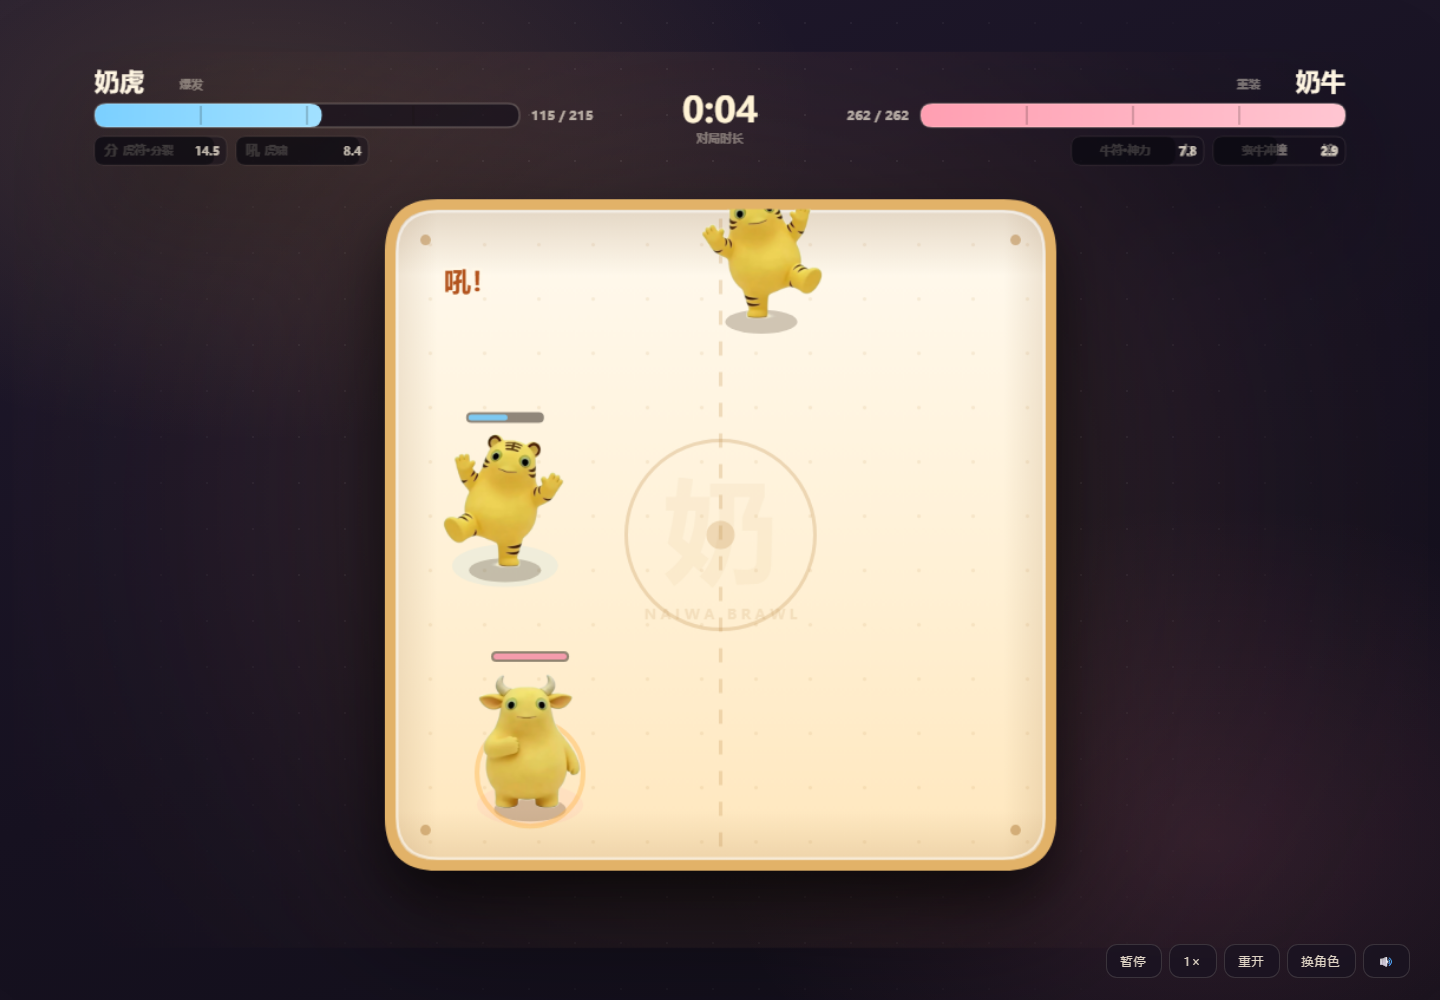
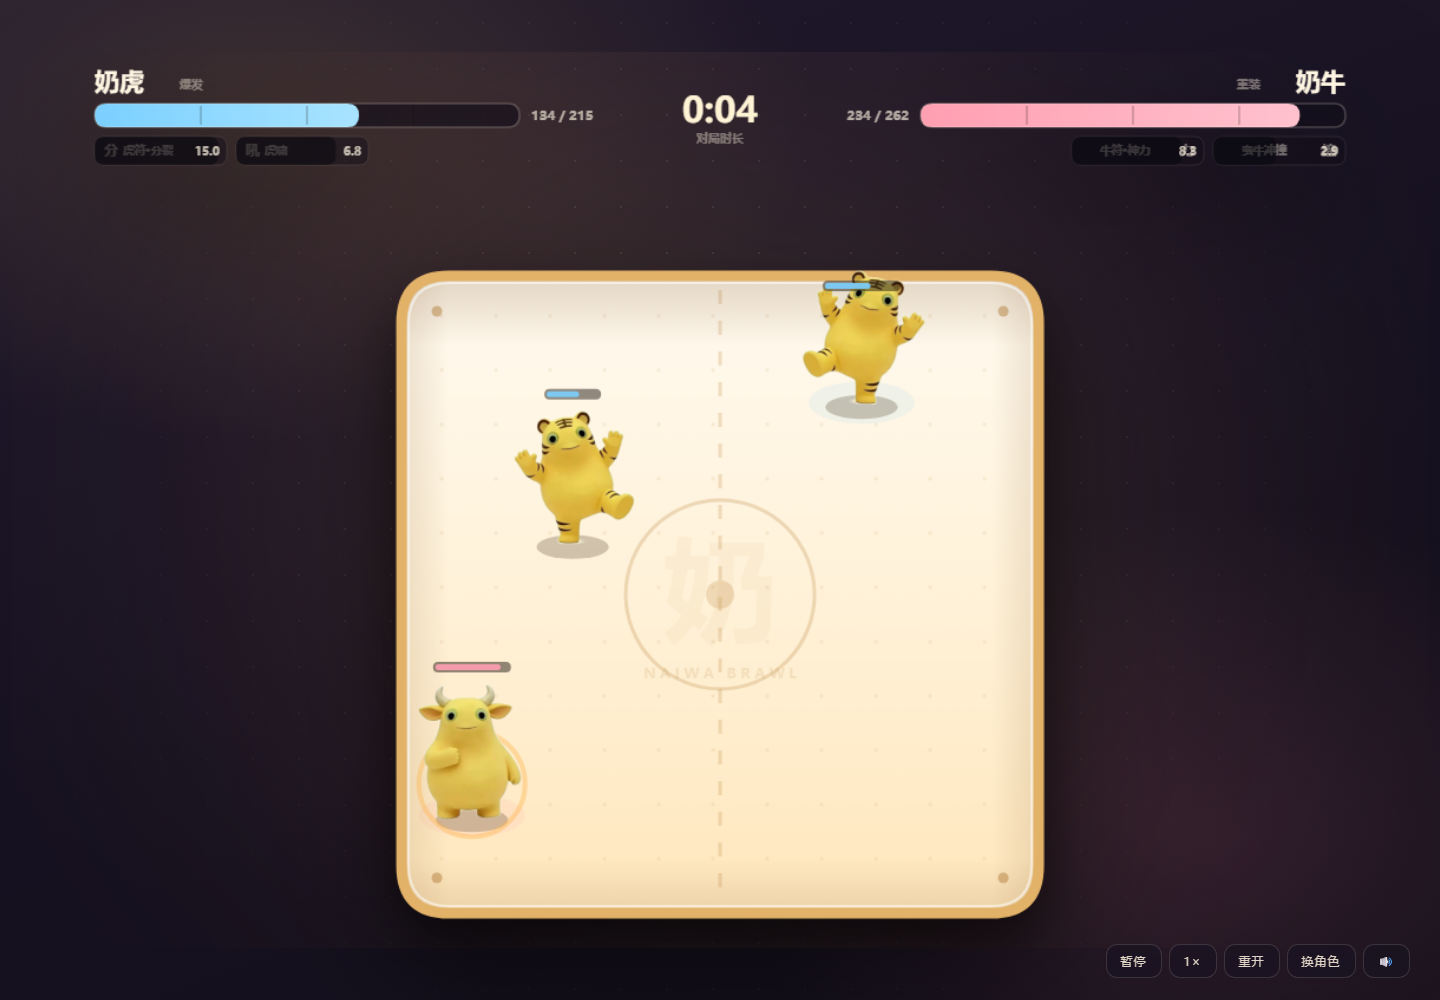
fix: 上边界不再裁切立绘；奶鼠偷取增益延长到 16 秒

diff --git a/src/game/skills.ts b/src/game/skills.ts
@@ -306,7 +306,7 @@ const steal: SkillDef = {
   id: 'steal',
   name: '偷奶酪',
   icon: '偷',
-  desc: '偷走对手 8% 攻击力（最多 4 层，持续 10 秒），并造成 12 伤害。',
+  desc: '偷走对手 8% 攻击力（最多 4 层，持续 16 秒），并造成 14 伤害。',
   cd: 7,
   windup: 0.3,
   color: '#ffd166',
@@ -316,7 +316,7 @@ const steal: SkillDef = {
     const target = t ?? enemyOf(f, w);
     if (target && !target.dead && dist(f.pos, target.pos) < f.radius + target.radius + 40) {
       f.buffStacks = Math.min(4, f.buffStacks + 1);
-      f.buffT = 10;
+      f.buffT = 16;
       w.damage(target, 14, f, { kb: 180, angle: angleOf(sub(target.pos, f.pos)) });
       w.text(f.pos.x, f.pos.y - 70, `攻击 +${f.buffStacks * 8}%`, '#8a5a00', 16);
       w.burst(f.pos.x, f.pos.y, 10, '#ffe07a', 120, 4);

diff --git a/src/render/renderer.ts b/src/render/renderer.ts
@@ -68,9 +68,10 @@ export class Renderer {
     this.drawBackdrop();
     this.drawArena(world);
 
-    // keep sprites inside the bowl: the rim occludes anyone hugging the wall
+    // clip to the bowl, but allow heads to overlap the top rim instead of
+    // getting sliced off when a frog hugs the top wall
     ctx.save();
-    roundRectPath(ctx, ARENA.x + 4, ARENA.y + 4, ARENA.w - 8, ARENA.h - 8, 34);
+    roundRectPath(ctx, ARENA.x + 4, ARENA.y - 58, ARENA.w - 8, ARENA.h + 54, 34);
     ctx.clip();
 
     this.drawTelegraphs(world);

diff --git a/src/game/constants.ts b/src/game/constants.ts
@@ -2,7 +2,7 @@ export const VIEW_W = 1200;
 export const VIEW_H = 760;
 
 /** Playfield. Everything lives in this rect; the HUD occupies the band above it. */
-export const ARENA = { x: 320, y: 130, w: 560, h: 560 };
+export const ARENA = { x: 330, y: 190, w: 540, h: 540 };
 
 export const SPAWN: [{ x: number; y: number }, { x: number; y: number }] = [
   { x: ARENA.x + ARENA.w * 0.22, y: ARENA.y + ARENA.h * 0.5 },

diff --git a/README.md b/README.md
@@ -43,7 +43,7 @@ pnpm preview
 
 ### 战场规则
 
-- **正方形奶盆** 560×560，四周弹性墙，**没有出界淘汰**。
+- **正方形奶盆** 540×540，四周弹性墙，**没有出界淘汰**；上边界允许立绘探出，不会被裁掉。
 - **所有角色体型一致**：碰撞半径统一 30，立绘按同一高度绘制（宽度随原画比例变化）。
 - **只有技能能造成伤害**：碰撞、撞墙、普通攻击全部不掉血；冲锋类技能撞墙仍然会自晕。
 - 为了补偿，技能基础伤害 ×1.75，范围、击退、屏幕震动和命中特效都整体放大。
@@ -121,11 +121,11 @@ pnpm sim -- 30    # 每对 30 场
 
 当前 1026 场结果（18 只，每对 6 场）：
 
-- 平均时长 55.3s，中位数 54.8s，P90 72.9s，最长 112.2s；
-- 910/1026 场进入「奶气沸腾」，7 场平局，0 卡死、0 出界；
-- 总胜率：奶青蛙 41.2%、奶牛 50.0%、奶鼠 60.5%、奶鸡 50.0%、奶龙 43.9%、奶猪 43.0%、奶虎 56.1%、奶兔 56.1%、奶蛇 47.4%、奶马 55.3%、奶羊 41.2%、奶猴 47.4%、奶狗 50.9%、奶蛋 33.3%、奶蛙 48.2%、奶臭 50.0%、奶鱼 65.8%、奶天使 53.5%。
+- 平均时长 53.8s，中位数 53.3s，P90 71.2s，最长 109.4s；
+- 872/1026 场进入「奶气沸腾」，9 场平局，0 卡死、0 出界；
+- 总胜率：奶青蛙 38.6%、奶牛 45.6%、奶鼠 61.4%、奶鸡 56.1%、奶龙 51.8%、奶猪 47.4%、奶虎 63.2%、奶兔 40.4%、奶蛇 45.6%、奶马 57.9%、奶羊 43.9%、奶猴 48.2%、奶狗 50.0%、奶蛋 38.6%、奶蛙 38.6%、奶臭 47.4%、奶鱼 64.9%、奶天使 52.6%。
 
-> 纯技能输出后，攻击力现在只影响技能伤害，成了最直接的平衡旋钮。全部角色落在 **33.3% ~ 65.8%** 区间；奶鱼/奶鼠偏高，奶蛋偏低，下一轮单独调。
+> 纯技能输出后，攻击力现在只影响技能伤害，成了最直接的平衡旋钮。全部角色落在 **38.6% ~ 64.9%** 区间；奶鱼/奶虎/奶鼠偏高，奶青蛙/奶蛋/奶蛙偏低，下一轮单独调。
 
 ---
 
